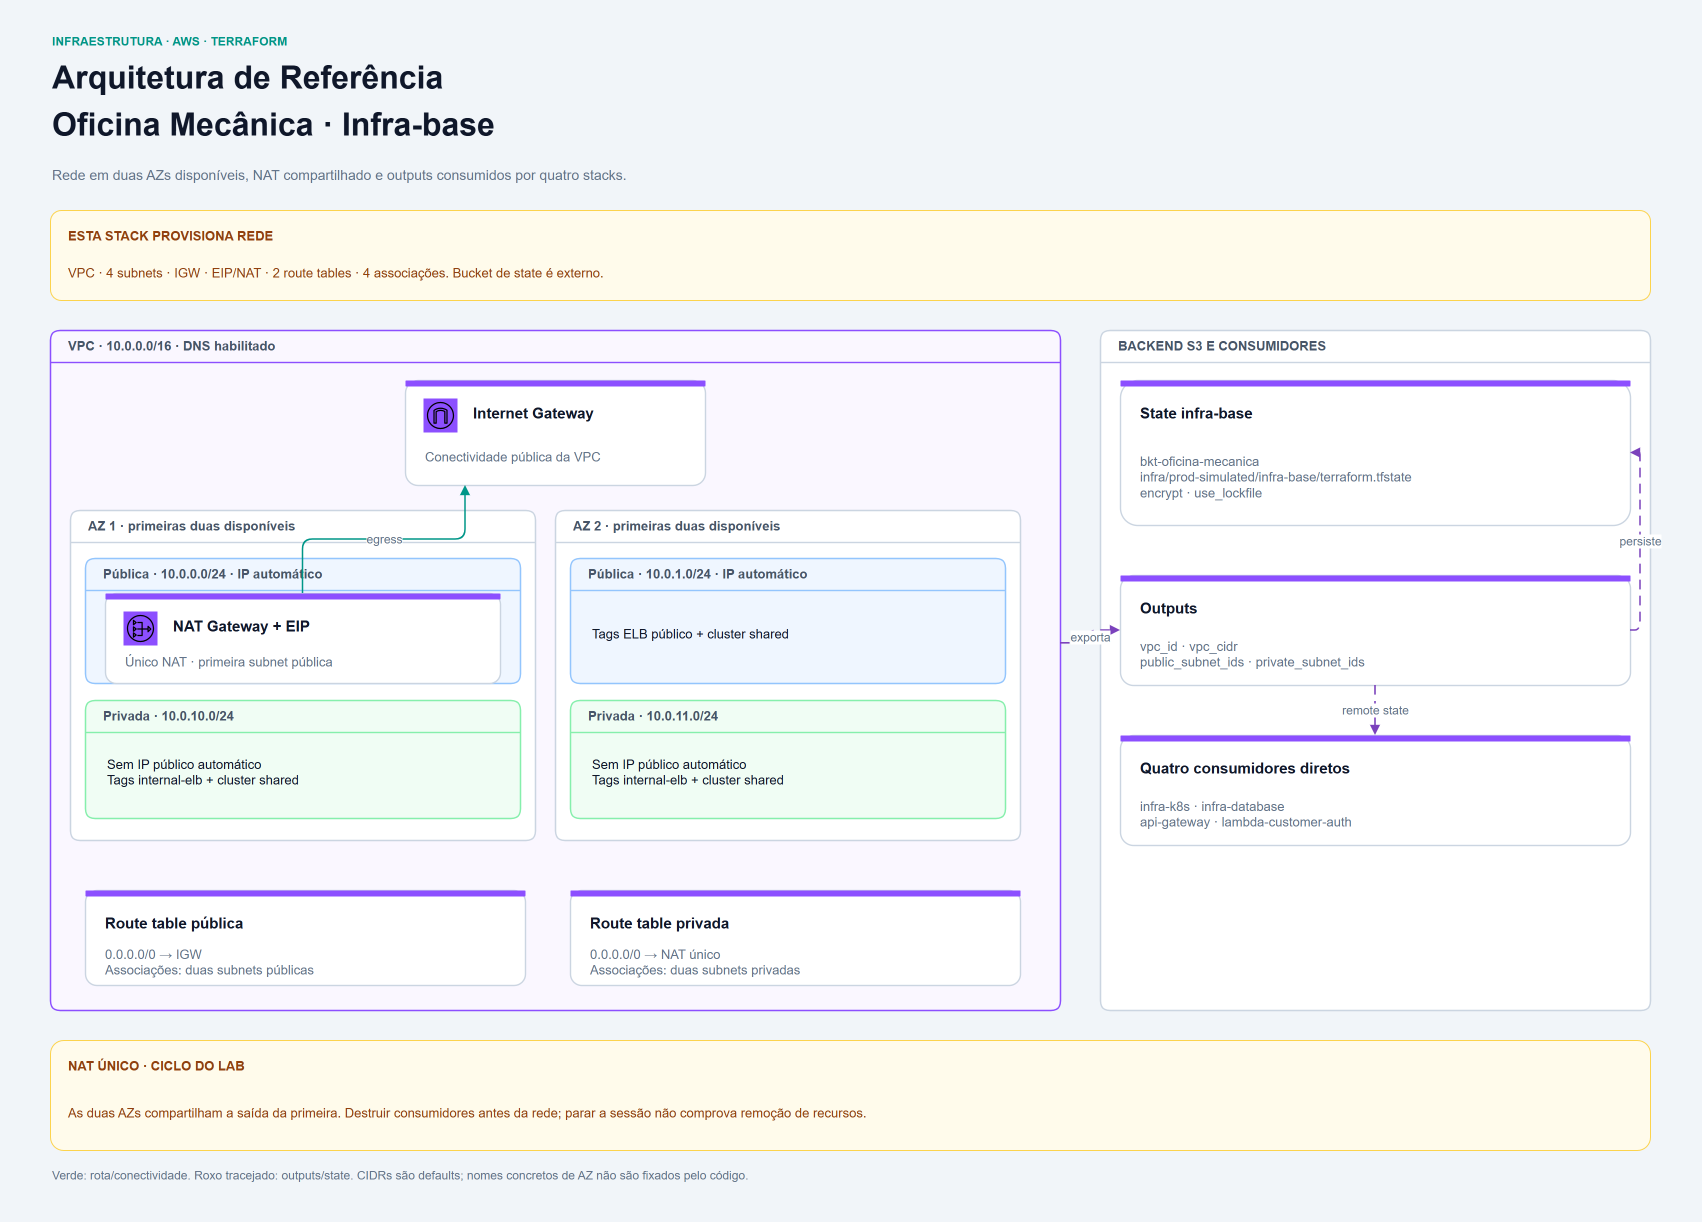
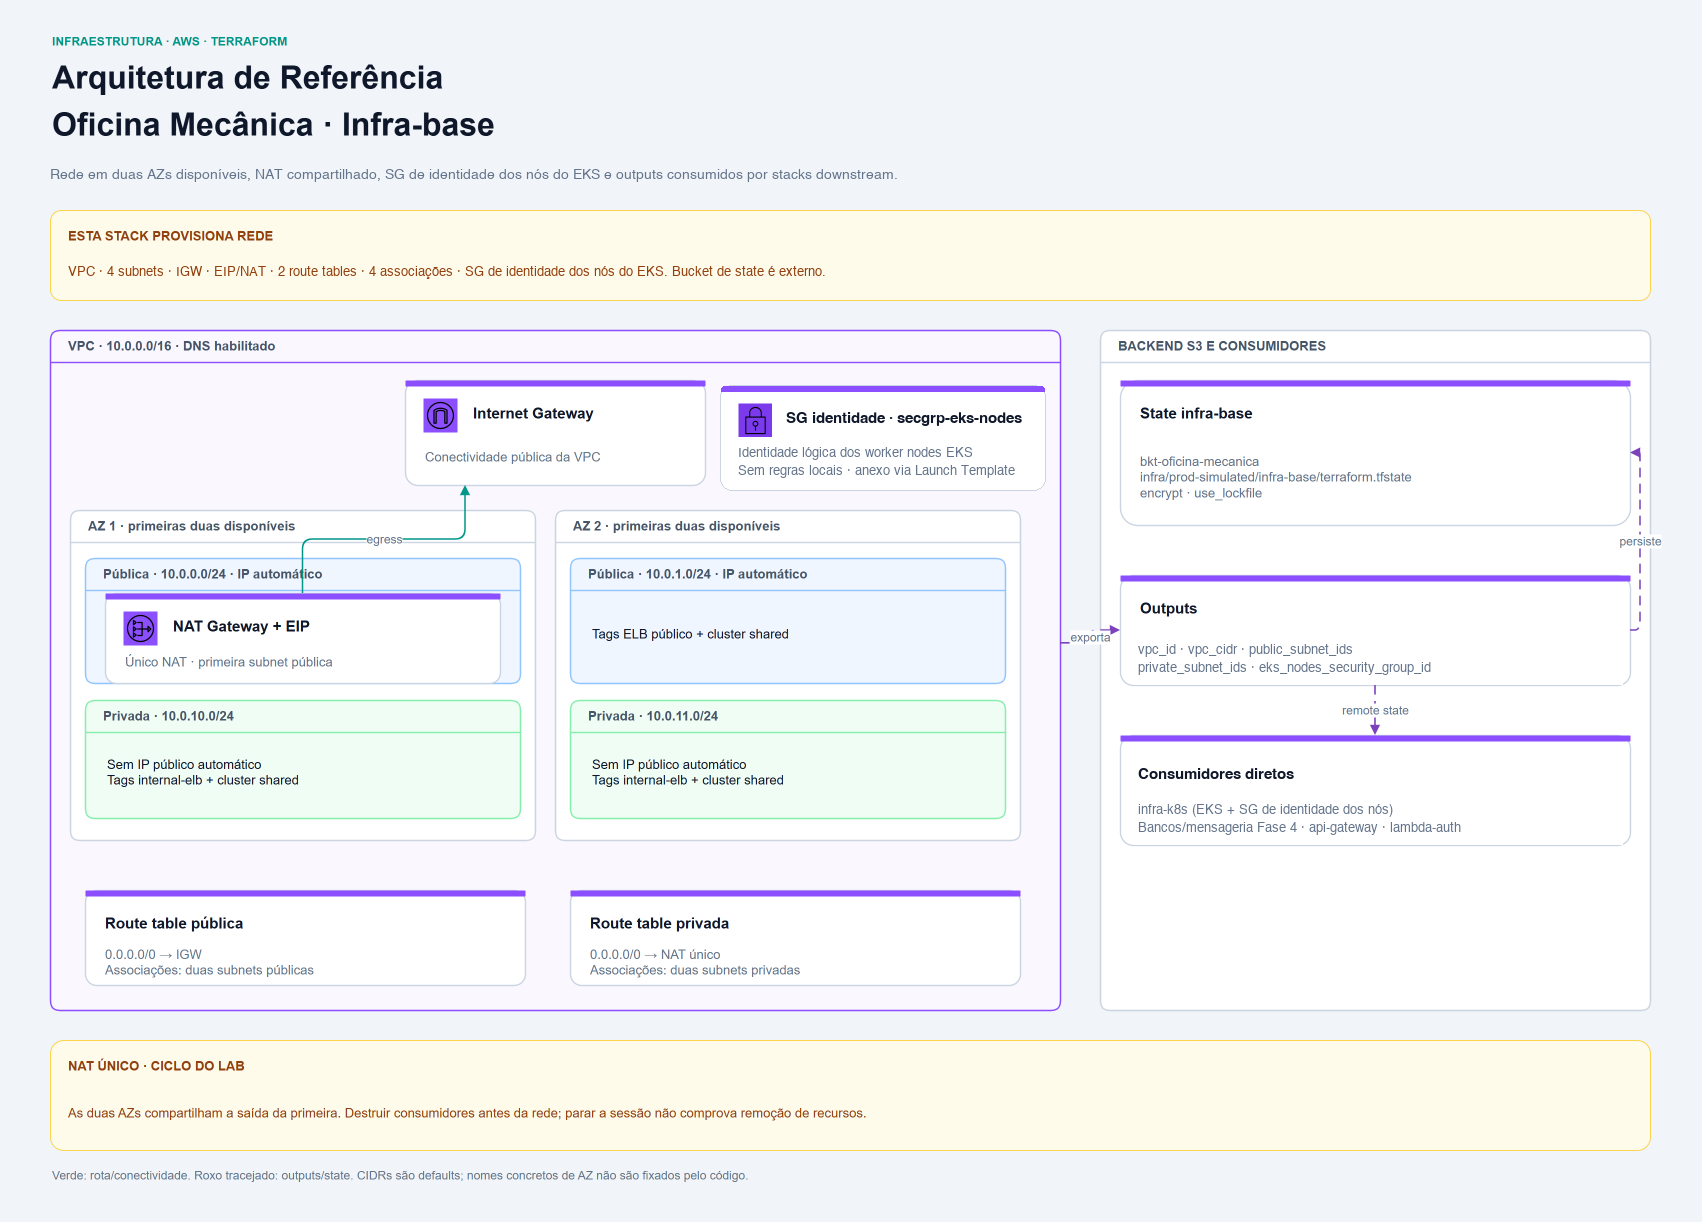
feat(terraform): add eks nodes security group and output
- provision secgrp-eks-nodes-oficina-mecanica (aws_security_group.eks_nodes) in VPC
- export eks_nodes_security_group_id output for infra-k8s and database repos
- document node identity SG in README, ADR 0002, ADR 0004, and infrastructure diagram

diff --git a/README.md b/README.md
@@ -28,6 +28,7 @@ A [API](https://github.com/FIAP-15SOAT/oficina-mecanica-work-order-service) é a
    - **Subnets Privadas**: `10.0.10.0/24` e `10.0.11.0/24`, nas mesmas duas AZs, sem atribuição automática de IP público e com tags para ELBs internos (`kubernetes.io/role/internal-elb = 1`). Os dois conjuntos também recebem a tag compartilhada do cluster `eks-oficina-mecanica`.
    - **Internet Gateway (IGW)** para a saída das subnets públicas e **um NAT Gateway**, com Elastic IP na primeira subnet pública, para a saída à internet das duas subnets privadas. A criação do NAT depende do IGW.
    - **Tabelas de roteamento**: uma pública, com rota `0.0.0.0/0` para o IGW, e uma privada, com rota `0.0.0.0/0` para o NAT. Cada tabela tem duas associações, uma por subnet do seu conjunto.
+   - **Security Group de identidade dos nós do EKS (`secgrp-eks-nodes-oficina-mecanica`)**: grupo sem regras próprias de entrada ou saída, exportado via `eks_nodes_security_group_id` para ser anexado aos nós do EKS pelo Launch Template do `infra-k8s` e referenciado nas regras de entrada dos bancos de dados (RDS) e cache (ElastiCache) dos serviços (ver [ADR 0004](docs/adr/0004-security-group-de-identidade-dos-nos-do-eks.md)).
 
 Os CIDRs são configuráveis. `locals.tf` seleciona apenas as primeiras duas AZs
 e os primeiros dois CIDRs de cada lista; CIDRs adicionais não criam outras
@@ -35,8 +36,9 @@ subnets. O provider aplica as tags `Project`, `ManagedBy` e `Environment`.
 As tags Kubernetes identificam as subnets para integração, mas não criam
 balanceadores por si mesmas.
 
-Esta stack provisiona a rede compartilhada. EKS, RDS, Lambda, API Gateway e seus
-Security Groups pertencem aos repositórios consumidores. O NLB da API é
+Esta stack provisiona a rede compartilhada e o Security Group de identidade dos
+nós do EKS. EKS, RDS, ElastiCache, Lambda, API Gateway e os Security Groups com
+regras de porta pertencem aos repositórios consumidores. O NLB da API é
 **interno**, nas subnets privadas, e é provisionado pela infraestrutura
 Kubernetes. Bucket de state, roles IAM, NACLs customizadas, Flow Logs e VPC
 Endpoints não são criados por este módulo.
@@ -57,7 +59,8 @@ Endpoints não são criados por este módulo.
 │   ├── adr/
 │   │   ├── 0001-escolha-de-nuvem-e-infra-base.md
 │   │   ├── 0002-postura-de-rede-apenas-security-groups.md
-│   │   └── 0003-ci-tolerante-a-indisponibilidade-do-lab.md
+│   │   ├── 0003-ci-tolerante-a-indisponibilidade-do-lab.md
+│   │   └── 0004-security-group-de-identidade-dos-nos-do-eks.md
 │   ├── diagrams/
 │   │   ├── cd-workflow.png  # Job e steps do workflow de CD
 │   │   ├── ci-workflow.png  # Jobs e steps do workflow de CI
@@ -67,7 +70,7 @@ Endpoints não são criados por este módulo.
 │   ├── .terraform.lock.hcl  # Versões e checksums dos providers
 │   ├── backend.tf  # Backend S3 e lock nativo
 │   ├── locals.tf  # Seleção/convenções locais de recursos
-│   ├── networking.tf  # VPC, AZs, subnets, IGW, NAT, rotas e associações
+│   ├── networking.tf  # VPC, AZs, subnets, IGW, NAT, rotas, associações e SG de identidade dos nós
 │   ├── outputs.tf  # Outputs de integração
 │   ├── providers.tf  # Providers e leitura de remote state quando aplicável
 │   ├── terraform.tfvars  # Configuração estável da stack
@@ -98,10 +101,14 @@ Os outputs são consumidos diretamente via `data.terraform_remote_state`:
 
 | Consumidor | Uso |
 | --- | --- |
-| [Infraestrutura Kubernetes](https://github.com/FIAP-15SOAT/oficina-mecanica-infra-k8s) | VPC/CIDR; subnets privadas para nodes/NLB e públicas + privadas associadas ao EKS |
-| [Infraestrutura de database](https://github.com/FIAP-15SOAT/oficina-mecanica-infra-database) | VPC/CIDR e subnets privadas para o RDS |
+| [Infraestrutura Kubernetes](https://github.com/FIAP-15SOAT/oficina-mecanica-infra-k8s) | VPC/CIDR, subnets privadas para nodes/NLB, subnets públicas + privadas associadas ao EKS e `eks_nodes_security_group_id` no Launch Template dos nós |
+| [Infraestrutura de database (Work Order)](https://github.com/FIAP-15SOAT/oficina-mecanica-infra-database) | VPC, subnets privadas e `eks_nodes_security_group_id` para o RDS PostgreSQL e ElastiCache Redis |
+| [Infraestrutura de database (Identity)](https://github.com/FIAP-15SOAT/oficina-mecanica-infra-database-identity) | VPC, subnets privadas e `eks_nodes_security_group_id` para o RDS PostgreSQL |
+| [Infraestrutura de database (Billing)](https://github.com/FIAP-15SOAT/oficina-mecanica-infra-database-billing) | VPC, subnets privadas e `eks_nodes_security_group_id` para o RDS PostgreSQL |
+| [Infraestrutura de database (Inventory)](https://github.com/FIAP-15SOAT/oficina-mecanica-infra-database-inventory) | VPC, subnets privadas e `eks_nodes_security_group_id` para o RDS PostgreSQL |
 | [API Gateway](https://github.com/FIAP-15SOAT/oficina-mecanica-api-gateway) | VPC/CIDR e subnets privadas para o VPC Link |
-| [Lambda de autenticação](https://github.com/FIAP-15SOAT/oficina-mecanica-lambda-customer-auth) | VPC e subnets privadas para a função |
+| [Lambda de autenticação (Customer)](https://github.com/FIAP-15SOAT/oficina-mecanica-lambda-customer-auth) | VPC e subnets privadas para a função |
+| [Lambda de autenticação (Staff)](https://github.com/FIAP-15SOAT/oficina-mecanica-lambda-staff-auth) | VPC e subnets privadas para a função |
 
 O monitoramento consome o state do Gateway, sem leitura direta deste state.
 
@@ -128,8 +135,9 @@ O monitoramento consome o state do Gateway, sem leitura direta deste state.
 | --- | --- | --- |
 | `vpc_id` | ID da VPC criada | VPC para SGs e integrações dos consumidores |
 | `vpc_cidr` | Bloco CIDR da VPC | CIDR usado nas regras de acesso |
-| `private_subnet_ids` | IDs das subnets privadas | Subnets de nodes EKS, RDS, VPC Link e Lambda |
+| `private_subnet_ids` | IDs das subnets privadas | Subnets de nodes EKS, RDS, ElastiCache, VPC Link e Lambdas |
 | `public_subnet_ids` | IDs das subnets públicas | Subnets também associadas ao control plane EKS |
+| `eks_nodes_security_group_id` | ID do Security Group de identidade dos nós do EKS (`secgrp-eks-nodes-oficina-mecanica`) | Anexado aos nós pelo Launch Template do `infra-k8s` e autorizado nos Security Groups de RDS e ElastiCache dos serviços |
 
 ---
 
@@ -199,7 +207,7 @@ comprova permissões AWS nem o resultado de um plan.
 Antes do primeiro CD numa conta AWS nova:
 
 1. Atualize os secrets `AWS_ACCESS_KEY_ID`, `AWS_SECRET_ACCESS_KEY` e `AWS_SESSION_TOKEN` da organização com as credenciais da conta.
-2. Atualize a variável da organização `TF_STATE_BUCKET` (hoje `bkt-oficina-mecanica-<id da conta AWS>`) e as variáveis `EKS_CLUSTER_ROLE_NAME` e `EKS_NODE_ROLE_NAME` do `oficina-mecanica-infra-k8s` com as roles da conta.
+2. Atualize a variável da organização `TF_STATE_BUCKET` (hoje `bkt-oficina-mecanica-<id da conta AWS>`) e a variável `EKS_CLUSTER_ROLE_NAME` do `oficina-mecanica-infra-k8s` com a role do cluster da conta (os nós usam `LabRole`).
 3. Crie o bucket de state, se ele não existir:
 
 ```bash
@@ -248,6 +256,7 @@ A [documentação de CI/CD](docs/ci-cd.md) explica cada job/step, conditions, au
 - [ADR 0001 — Escolha da nuvem (AWS) e criação da infraestrutura de rede base](docs/adr/0001-escolha-de-nuvem-e-infra-base.md)
 - [ADR 0002 — Controle de tráfego só por Security Groups, sem NACLs nem VPC Flow Logs](docs/adr/0002-postura-de-rede-apenas-security-groups.md)
 - [ADR 0003 — CI tolerante à indisponibilidade do ambiente AWS Academy](docs/adr/0003-ci-tolerante-a-indisponibilidade-do-lab.md)
+- [ADR 0004 — Security group de identidade dos nós do EKS](docs/adr/0004-security-group-de-identidade-dos-nos-do-eks.md)
 
 ## 👥 Autores
 

diff --git a/docs/adr/0004-security-group-de-identidade-dos-nos-do-eks.md b/docs/adr/0004-security-group-de-identidade-dos-nos-do-eks.md
@@ -1,0 +1,51 @@
+# ADR 0004: Security group de identidade dos nós do EKS
+
+## Status
+
+Aceito — 2026-10-23
+
+## Contexto
+
+Na Fase 4, a solução evolui para quatro microsserviços rodando no cluster EKS (`work-order`, `identity`, `billing` e `inventory`), cada um com seu próprio repositório de banco de dados relacional RDS PostgreSQL (e ElastiCache Redis no caso de `work-order`). Para cumprir o princípio de menor privilégio na rede (ADR 0002), os bancos de dados e caches devem aceitar conexões nas portas `5432` e `6379` apenas a partir dos nós de trabalho do EKS — e não de qualquer interface de rede nas subnets privadas.
+
+ Ao mesmo tempo, na ordem de provisionamento da arquitetura (§22), os repositórios de dados (`infra-database`, `infra-database-identity`, `infra-database-billing`, `infra-database-inventory`) e o repositório do cluster (`infra-k8s`) compõem a camada de plataforma que sobe imediatamente após a rede base (`infra-base`), em paralelo entre si. Se os repositórios de dados dependessem do remote state do `infra-k8s` para obter o Security Group do cluster EKS, perderiam a capacidade de subir em paralelo com o cluster (que leva cerca de 12 a 15 minutos para ser provisionado).
+
+## Decisão
+
+Provisionar no `oficina-mecanica-infra-base` (`terraform/networking.tf`) um Security Group dedicado exclusivamente à **identidade dos nós do EKS** (`secgrp-eks-nodes-oficina-mecanica`), **sem regras próprias de entrada ou saída**, e exportar seu identificador no output `eks_nodes_security_group_id`:
+
+1. O `oficina-mecanica-infra-k8s` lê `eks_nodes_security_group_id` via `data.terraform_remote_state` do `infra-base` e anexa esse Security Group (junto ao Security Group gerenciado do cluster EKS) no Launch Template do Node Group. Como o VPC CNI do EKS atribui IPs secundários das ENIs do nó aos pods, todo tráfego originado pelos pods carrega esse Security Group.
+2. Os repositórios de dados (`infra-database`, `infra-database-identity`, `infra-database-billing` e `infra-database-inventory`) leem `eks_nodes_security_group_id` diretamente do state do `infra-base` e autorizam entrada em `5432/tcp` (e `6379/tcp` no Redis) tendo esse Security Group como `referenced_security_group_id`.
+
+## Alternativas consideradas
+
+### Ler o Security Group do cluster pelo remote state do `infra-k8s`
+
+Os repositórios de dados consumiriam `data.terraform_remote_state.infra_k8s` para referenciar o Security Group gerenciado do cluster EKS (`cluster_security_group_id`). Descartada porque criaria uma dependência sequencial entre os quatro repositórios de banco de dados e o provisionamento do cluster EKS, impedindo que bancos e cluster subam em paralelo na camada pós-rede base e aumentando o tempo total de bootstrap da sessão do AWS Academy Learner Lab.
+
+### Restringir o acesso aos bancos pelo CIDR das subnets privadas
+
+Os Security Groups de RDS e ElastiCache liberariam entrada a partir dos blocos CIDR das subnets privadas (`10.0.10.0/24` e `10.0.11.0/24`) ou do `vpc_cidr`. Descartada porque qualquer outra ENI provisionada nas subnets privadas — como as funções AWS Lambda de autenticação (`lambda-customer-auth`, `lambda-staff-auth`) ou o VPC Link do API Gateway — também teria permissão de rede para alcançar as portas dos bancos e do cache, violando o isolamento de que apenas os nós do EKS devem acessar a camada de persistência.
+
+## Consequências
+
+### Positivas
+
+- **Desacoplamento na ordem de provisionamento**: `infra-k8s` e os quatro repositórios de dados dependem apenas do state do `infra-base`, podendo ser provisionados simultaneamente.
+- **Controle de acesso por identidade de Security Group**: o tráfego para RDS e ElastiCache é restrito às ENIs que carregam `secgrp-eks-nodes-oficina-mecanica`, excluindo Lambdas e demais recursos da VPC.
+- **Responsabilidades claras**: o `infra-base` define apenas a identidade compartilhada sem regras de aplicação, enquanto cada repositório consumidor define as regras das portas que lhe pertencem.
+
+### Negativas / Trade-offs
+
+- **Exige que o Launch Template do EKS liste explicitamente os dois Security Groups**: ao especificar `vpc_security_group_ids` no Launch Template dos nós, o EKS deixa de anexar automaticamente o Security Group do cluster; portanto, o `infra-k8s` precisa informar tanto `cluster_security_group_id` quanto `eks_nodes_security_group_id`.
+
+### Riscos aceitos
+
+- **Compartilhamento da mesma identidade de rede entre os quatro serviços no cluster**: como todos os pods compartilham as ENIs dos nós do Node Group único, a distinção de acesso por serviço a cada banco ocorre pelas credenciais e endpoints de conexão injetados por namespace, e não por Security Group individual por pod (já que Security Groups for Pods exigiriam roles IAM dedicadas indisponíveis no AWS Academy).
+
+## Referências
+
+- [ADR 0001 — Escolha da nuvem e criação da infraestrutura de rede base](0001-escolha-de-nuvem-e-infra-base.md)
+- [ADR 0002 — Controle de tráfego só por Security Groups, sem NACLs nem VPC Flow Logs](0002-postura-de-rede-apenas-security-groups.md)
+- `terraform/networking.tf` e `terraform/outputs.tf` — declaração de `aws_security_group.secgrp_eks_nodes` e output `eks_nodes_security_group_id`.
+- [`oficina-mecanica-infra-k8s` — Launch Template dos nós do EKS](https://github.com/FIAP-15SOAT/oficina-mecanica-infra-k8s/blob/main/terraform/eks.tf)

diff --git a/docs/adr/0002-postura-de-rede-apenas-security-groups.md b/docs/adr/0002-postura-de-rede-apenas-security-groups.md
@@ -6,7 +6,7 @@ Aceito — 2026-09-07
 
 ## Contexto
 
-A VPC provisionada por este repositório (ADR 0001) define subnets, tabelas de rotas, Internet Gateway e NAT Gateway (`networking.tf`), mas nenhum `aws_network_acl` customizado nem `aws_flow_log`. Os **Security Groups** são definidos pelos consumidores: Kubernetes (SG adicional do control plane e regra NodePort no SG gerenciado do EKS), database (RDS), API Gateway (VPC Link) e Lambda (ENIs da função). As regras atuam nas interfaces/recursos, não no nível de subnet. O SG adicional do EKS não limita sozinho seu endpoint público de administração.
+A VPC provisionada por este repositório (ADR 0001) define subnets, tabelas de rotas, Internet Gateway, NAT Gateway e o Security Group de identidade dos nós do EKS sem regras próprias (`networking.tf`, ver [ADR 0004](0004-security-group-de-identidade-dos-nos-do-eks.md)), mas nenhum `aws_network_acl` customizado nem `aws_flow_log`. As regras dos **Security Groups** são definidas pelos consumidores: Kubernetes (SG adicional do control plane e regras NodePort no SG gerenciado do EKS), databases (RDS e ElastiCache autorizando o SG de identidade dos nós), API Gateway (VPC Link) e Lambdas (ENIs das funções). As regras atuam nas interfaces/recursos, não no nível de subnet. O SG adicional do EKS não limita sozinho seu endpoint público de administração.
 
 ## Decisão
 
